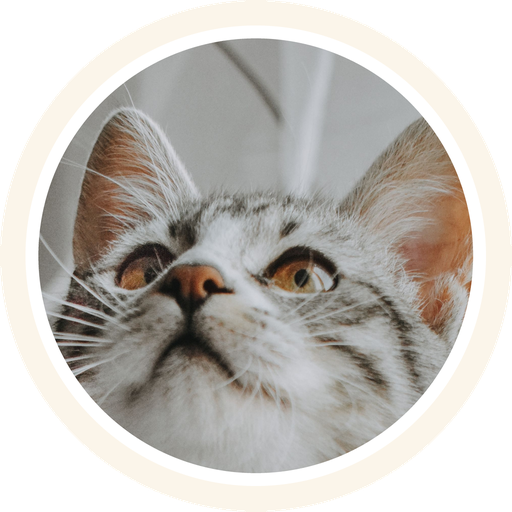
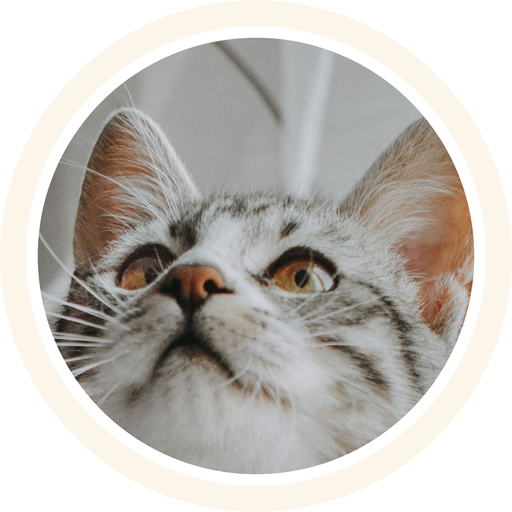
docs: add reproducible brand asset builder

diff --git a/vmr/docs/brand/build.py b/vmr/docs/brand/build.py
@@ -1,0 +1,118 @@
+#!/usr/bin/env python3
+"""Rebuild the vmr logo assets from any source photograph or illustration.
+
+Usage:
+    python3 build.py --src cat.jpg --box 120,40,1940,1860
+    python3 build.py --src anime.png --box 0,0,1000,1000 --weight 6
+
+Emits logo.png (rounded card: circular medallion + wordmark) and mark.png
+(square avatar) next to this script. Pillow only.
+"""
+
+from __future__ import annotations
+
+import argparse
+import os
+
+from PIL import Image, ImageDraw, ImageFont
+
+CREAM = (251, 245, 234)
+INK = (40, 30, 22)
+ACCENT = (181, 67, 47)
+FONT_CANDIDATES = (
+    "/System/Library/Fonts/SFCompactRounded.ttf",
+    "/System/Library/Fonts/SFNSRounded.ttf",
+    "/System/Library/Fonts/HelveticaNeue.ttc",
+    "/usr/share/fonts/truetype/dejavu/DejaVuSans-Bold.ttf",
+)
+MARK_SIZE = 512
+CARD = (1240, 340)
+CARD_RADIUS = 76
+MEDALLION = 232
+
+
+def load_font(size: int):
+    for path in FONT_CANDIDATES:
+        if os.path.exists(path):
+            try:
+                return ImageFont.truetype(path, size)
+            except OSError:
+                continue
+    return ImageFont.load_default(size)
+
+
+def medallion(src: Image.Image, box, size: int, ring: float = 0.028) -> Image.Image:
+    """Circle-crop `box` out of `src`, add a white ring, return an RGBA square."""
+    ss = 4  # supersample for a clean circle edge
+    d = size * ss
+    photo = src.crop(box).resize((d, d), Image.LANCZOS).convert("RGB")
+    mask = Image.new("L", (d, d), 0)
+    ImageDraw.Draw(mask).ellipse((0, 0, d - 1, d - 1), fill=255)
+    med = Image.new("RGBA", (d, d), (0, 0, 0, 0))
+    med.paste(photo, (0, 0), mask)
+    med.putalpha(mask)
+    ring_img = Image.new("RGBA", (d, d), (0, 0, 0, 0))
+    ImageDraw.Draw(ring_img).ellipse(
+        (0, 0, d - 1, d - 1), outline=(255, 255, 255, 255), width=max(2, int(d * ring))
+    )
+    return Image.alpha_composite(med, ring_img).resize((size, size), Image.LANCZOS)
+
+
+def build_mark(src: Image.Image, box) -> Image.Image:
+    canvas = Image.new("RGBA", (MARK_SIZE, MARK_SIZE), (0, 0, 0, 0))
+    ImageDraw.Draw(canvas).ellipse(
+        (0, 0, MARK_SIZE - 1, MARK_SIZE - 1), fill=CREAM + (255,)
+    )
+    med = medallion(src, box, int(MARK_SIZE * 0.90), ring=0.026)
+    canvas.alpha_composite(med, ((MARK_SIZE - med.width) // 2, (MARK_SIZE - med.height) // 2))
+    return canvas
+
+
+def build_logo(src: Image.Image, box, weight: int = 5) -> Image.Image:
+    w, h = CARD
+    card = Image.new("RGBA", (w, h), (0, 0, 0, 0))
+    ImageDraw.Draw(card).rounded_rectangle((0, 0, w - 1, h - 1), radius=CARD_RADIUS, fill=CREAM + (255,))
+
+    med = medallion(src, box, MEDALLION)
+    draw = ImageDraw.Draw(card)
+    font = load_font(176)
+    text = "vmr"
+    stroke = weight
+    bb = draw.textbbox((0, 0), text, font=font, stroke_width=stroke)
+    tw, th = bb[2] - bb[0], bb[3] - bb[1]
+    gap = 56
+    total = med.width + gap + tw + 56
+    x0 = (w - total) // 2
+    card.alpha_composite(med, (x0, (h - med.height) // 2))
+
+    tx = x0 + med.width + gap
+    ty = (h - th) // 2 - bb[1] - 4
+    draw.text((tx, ty), text, font=font, fill=INK + (255,), stroke_width=stroke, stroke_fill=INK + (255,))
+
+    dot = 15
+    dx = tx + tw + 30
+    dy = ty + bb[3] - dot * 2 - 8
+    draw.ellipse((dx, dy, dx + dot * 2, dy + dot * 2), fill=ACCENT + (255,))
+    return card
+
+
+def main() -> None:
+    ap = argparse.ArgumentParser()
+    ap.add_argument("--src", required=True, help="source image")
+    ap.add_argument("--box", required=True, help="crop box for the face: L,T,R,B")
+    ap.add_argument("--weight", type=int, default=5, help="wordmark stroke width")
+    ap.add_argument("--out-dir", default=os.path.dirname(os.path.abspath(__file__)))
+    args = ap.parse_args()
+
+    box = tuple(int(v) for v in args.box.split(","))
+    src = Image.open(args.src).convert("RGB")
+
+    mark = build_mark(src, box)
+    logo = build_logo(src, box, args.weight)
+    mark.save(os.path.join(args.out_dir, "mark.png"), optimize=True)
+    logo.save(os.path.join(args.out_dir, "logo.png"), optimize=True)
+    print(f"mark.png {mark.size}  logo.png {logo.size}")
+
+
+if __name__ == "__main__":
+    main()
